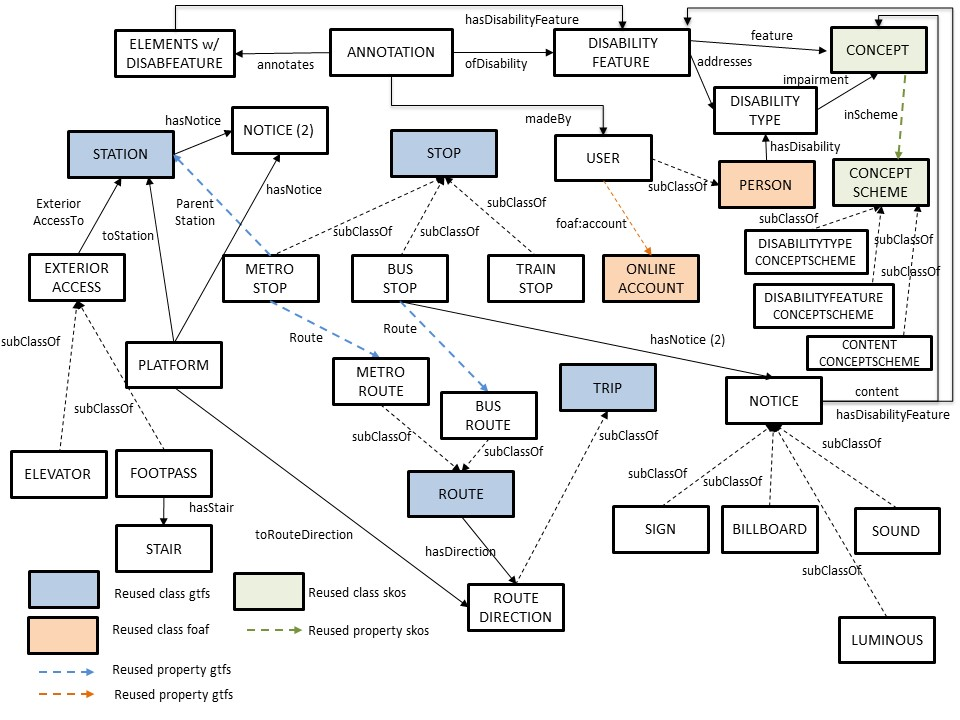
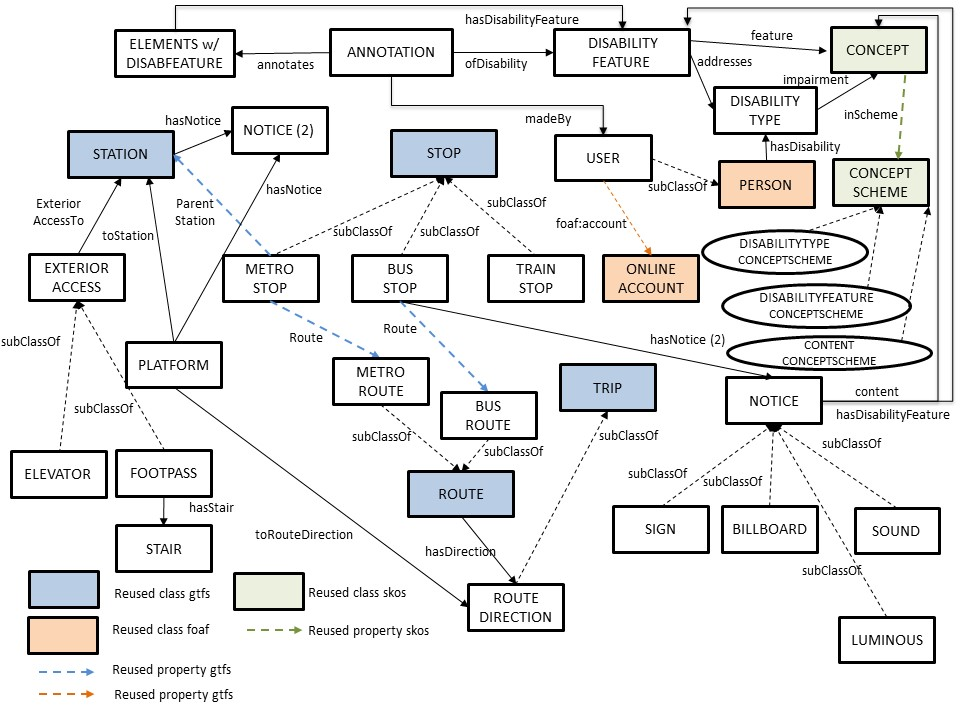
Figure and SKOS links

Changed region(s): [[0.7188, 0.275, 0.9688, 0.5194]]

diff --git a/OnToology/TransportAccessibilityv3.owl/documentation/sections/description-en.html b/OnToology/TransportAccessibilityv3.owl/documentation/sections/description-en.html
@@ -1,9 +1,12 @@
 <h2 id="desc" class="list">Public Transport Accessibility: Description <span class="backlink"> back to <a href="#toc">ToC</a></span></h2>
 <span class="markdown">
 The ontology allows the representation of the annotations of diability features for a public transportation system.<br><br>
-Any DISABILITY FEATURE of a THING (a STATION, a BUS STOP, a PLATFORM or an EXTERIOR ACCESS to the station) in the transportation system can be annotated by a USER.  A transportation DISABILITY FEATURE addresses a certain DISABILITY TYPE and people may have a cartain type of disability, e.g. visual, auditive, reduced mobility. <br><br>
+Any DISABILITY FEATURE of a THING (a STATION, a BUS STOP, a PLATFORM or an EXTERIOR ACCESS to the station) in the transportation system can be annotated by a USER.  A transportation DISABILITY FEATURE addresses a certain DISABILITY TYPE and people may have a certain type of disability, e.g. visual, auditive, reduced mobility. <br><br>
 An EXTERIOR ACCESS to a STATION may be an ELEVATOR or a  FOOTPASS and a footpass may have a STAIR which may be a regular stair or an escalator. A ROUTE has in general two ROUTE DIRECTIONs and STOPs belong to certain routes. METRO STOPs and TRAIN STOPs are located in a parent STATION. <br><br>
 A PLATFORM belongs to a STATION for a certain ROUTE DIRECTION. A BUS STOP, PLATFORM or STATION may have different types of NOTICE: SIGN, BILLBOARD, SOUND and LUMINOUS. 
+
+SKOS systems have been implemented for accessibility features for people with disabilities, implemented in stations, platforms, exterior accesses and bus stops that belong to public transportation systems, <a href="https://github.com/opencitydata/listas-codigos-skos/blob/master/urbanismo-infraestructuras/transporte/transport-disability-feature.ttl">SKOS transport accesibility features</a>
+Additionally there is a taxonomy of the content of different types of notices in stations, platforms and bus stops, <a href="https://github.com/opencitydata/listas-codigos-skos/blob/master/urbanismo-infraestructuras/transporte/transport-disability-notice.ttl">SKOS transport accesibility notices</a>
 </span>
 <h3>Overview of classes and object properties</h3> 
 An overview of the classes and object properties can be seen in the following figure:
